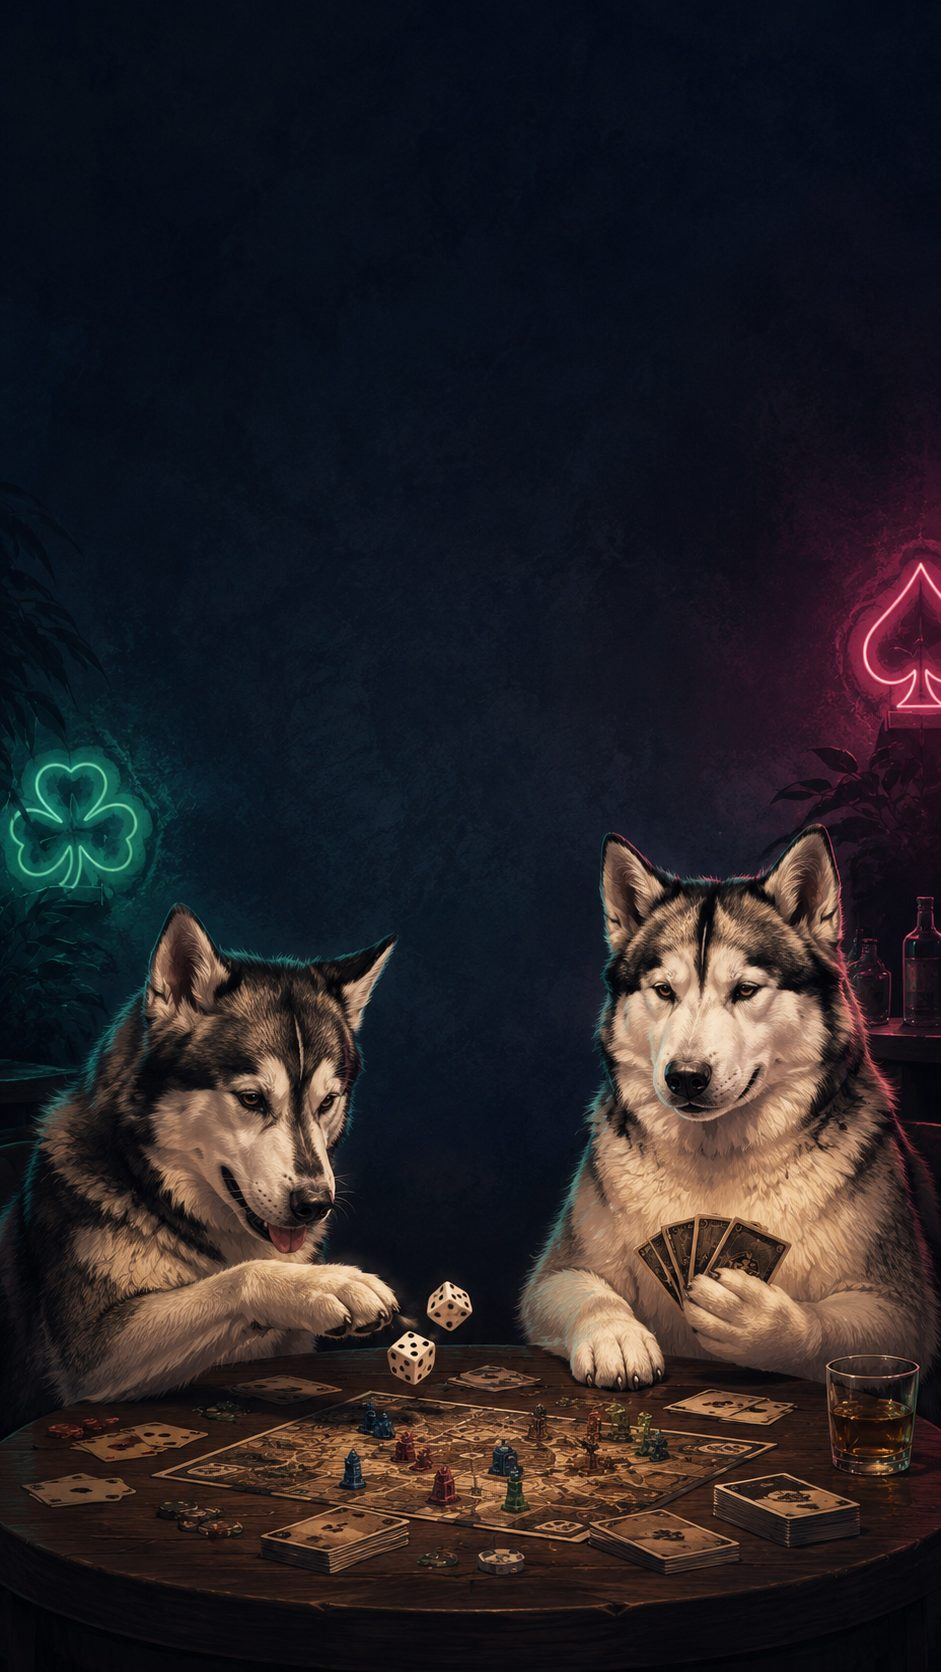
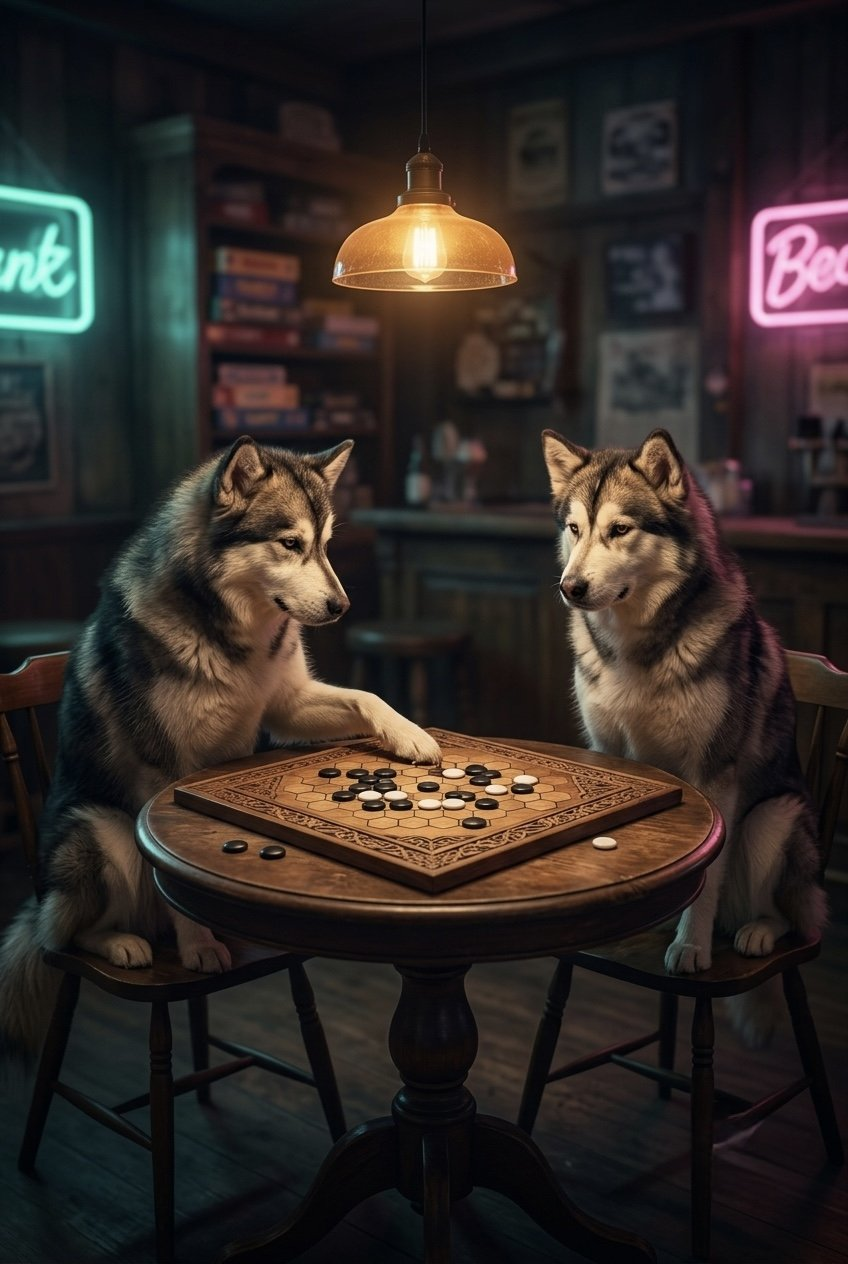
Byt bakgrundsbild till nytt Alaskan malamute-motiv
Ny bakgrundsbild (bg-dogs.jpg) med två Alaskan malamutes vid ett
spelbord, samma mörka neon-stämning som tidigare men nytt motiv och
mindre filstorlek (194 KB -> 134 KB). Cache-bustar bildreferensen i
CSS:en så uppdateringen slår igenom direkt för befintliga besökare.

diff --git a/js/main.js b/js/main.js
@@ -6,17 +6,17 @@ import {
     createRoom, joinRoom, makeMove, finishRound, markReadyForNext,
     cancelWaitingRoom, listenToOpenRooms,
     forgetRoom, listenToRoom, normalizeCode,
-} from "./rooms.js?v=46";
+} from "./rooms.js?v=47";
 import {
     showScreen, renderLobby, renderGame, setError,
     renderProfileList, filterProfiles, setCurrentProfileLabel, populateStatsFilters, renderStatsResults, renderOpenRooms,
     populateRulesGamePicker, renderRulesContent,
-} from "./ui.js?v=46";
-import { getGame, DEFAULT_GAME_ID } from "./games/registry.js?v=46";
+} from "./ui.js?v=47";
+import { getGame, DEFAULT_GAME_ID } from "./games/registry.js?v=47";
 import {
     listProfiles, getOrCreateProfileByName, getStoredProfile, storeProfile, clearStoredProfile, fetchStatsLog,
-} from "./profiles.js?v=46";
-import { filterEntries, buildLeaderboard, buildHeadToHead } from "./stats.js?v=46";
+} from "./profiles.js?v=47";
+import { filterEntries, buildLeaderboard, buildHeadToHead } from "./stats.js?v=47";
 
 // Bumpas manuellt vid varje push så det syns i appen (längst ner) vilken
 // version en telefon faktiskt kör — bra för att felsöka cache-problem.
@@ -25,7 +25,7 @@ import { filterEntries, buildLeaderboard, buildHeadToHead } from "./stats.js?v=4
 // i index.html, annars riskerar olika filer att cachas separat och hamna
 // i otakt — vilket var precis orsaken till att "rummet hittades inte"
 // kvarstod trots att fixen redan var pushad.
-export const APP_VERSION = "build 46 · 2026-08-08";
+export const APP_VERSION = "build 47 · 2026-08-08";
 
 let currentCode = null;
 let myPlayerId = null;

diff --git a/js/games/registry.js b/js/games/registry.js
@@ -2,16 +2,16 @@
 // till här; resten av appen (rooms.js/ui.js/main.js) är generisk över
 // vilket spel som spelas och pratar bara med den här filen.
 
-import * as tictactoe from "./tictactoe.js?v=46";
-import * as othello from "./othello.js?v=46";
-import * as backgammon from "./backgammon.js?v=46";
-import * as battleship from "./battleship.js?v=46";
-import * as connectfour from "./connectfour.js?v=46";
-import * as checkers from "./checkers.js?v=46";
-import * as go from "./go.js?v=46";
-import * as kvarn from "./kvarn.js?v=46";
-import * as hex from "./hex.js?v=46";
-import * as abalone from "./abalone.js?v=46";
+import * as tictactoe from "./tictactoe.js?v=47";
+import * as othello from "./othello.js?v=47";
+import * as backgammon from "./backgammon.js?v=47";
+import * as battleship from "./battleship.js?v=47";
+import * as connectfour from "./connectfour.js?v=47";
+import * as checkers from "./checkers.js?v=47";
+import * as go from "./go.js?v=47";
+import * as kvarn from "./kvarn.js?v=47";
+import * as hex from "./hex.js?v=47";
+import * as abalone from "./abalone.js?v=47";
 
 export const GAMES = {
     [tictactoe.meta.id]: tictactoe,

diff --git a/js/rooms.js b/js/rooms.js
@@ -12,8 +12,8 @@
 // innan en ny rond startar (round.readyForNext) — se finishRound/
 // markReadyForNext nedan.
 
-import { paths, dbGet, dbSet, dbRemove, dbTransact, dbListen, dbPush, registerPresence } from "./firebase.js?v=46";
-import { getGame, DEFAULT_GAME_ID } from "./games/registry.js?v=46";
+import { paths, dbGet, dbSet, dbRemove, dbTransact, dbListen, dbPush, registerPresence } from "./firebase.js?v=47";
+import { getGame, DEFAULT_GAME_ID } from "./games/registry.js?v=47";
 
 // Spel kan lägga till egna initiala fält på runde-nivå (t.ex. backgammons
 // dubbleringstärning) via en valfri game.initialRoundState()-hook.

diff --git a/index.html b/index.html
@@ -11,7 +11,7 @@
     <link rel="apple-touch-icon" href="assets/icon.svg">
     <meta name="apple-mobile-web-app-capable" content="yes">
     <meta name="apple-mobile-web-app-status-bar-style" content="black-translucent">
-    <link rel="stylesheet" href="style.css?v=46">
+    <link rel="stylesheet" href="style.css?v=47">
 </head>
 <body>
     <div id="app">
@@ -210,6 +210,6 @@
 
     <div id="app-version" class="app-version"></div>
 
-    <script type="module" src="js/main.js?v=46"></script>
+    <script type="module" src="js/main.js?v=47"></script>
 </body>
 </html>

diff --git a/js/ui.js b/js/ui.js
@@ -4,8 +4,8 @@
 // här filen. Vet ingenting om enskilda spels regler — allt sådant kommer
 // från den aktuella spelmodulen (js/games/registry.js) via room.gameId.
 
-import { boardToCells } from "./games/shared.js?v=46";
-import { getGame, GAME_LIST } from "./games/registry.js?v=46";
+import { boardToCells } from "./games/shared.js?v=47";
+import { getGame, GAME_LIST } from "./games/registry.js?v=47";
 
 const screens = {
     profile: document.getElementById("screen-profile"),

diff --git a/style.css b/style.css
@@ -39,7 +39,7 @@ body {
 body.bg-start {
     background:
         linear-gradient(to bottom, rgba(11, 12, 16, 0.25) 0%, rgba(11, 12, 16, 0.55) 55%, rgba(11, 12, 16, 0.92) 100%),
-        url("assets/bg-dogs.jpg") center bottom / cover no-repeat;
+        url("assets/bg-dogs.jpg?v=47") center bottom / cover no-repeat;
 }
 
 /* Genomskinligt kort på startsidorna så bakgrundsbilden skymtar igenom

diff --git a/js/games/hex.js b/js/games/hex.js
@@ -27,7 +27,7 @@
 // ursprungliga drag var för Svart. Bara giltigt en enda gång, precis
 // efter det allra första draget (round.board.stones har exakt 1 sten).
 
-import { otherSymbolOf } from "./shared.js?v=46";
+import { otherSymbolOf } from "./shared.js?v=47";
 
 const SIZE = 11;
 const CELL_COUNT = SIZE * SIZE;

diff --git a/js/profiles.js b/js/profiles.js
@@ -10,7 +10,7 @@
 // profileId är den varaktiga identiteten en spelare väljer EN gång och
 // sedan återanvänder i alla rum den skapar/går med i.
 
-import { paths, dbGet, dbSet } from "./firebase.js?v=46";
+import { paths, dbGet, dbSet } from "./firebase.js?v=47";
 
 const STORAGE_KEY = "luffarschack:profile";
 

diff --git a/js/games/abalone.js b/js/games/abalone.js
@@ -29,7 +29,7 @@
 // (Go/Kvarn) och inte bara en engångsplacering i en tom ruta (Hex). Se
 // rendering-sektionen längst ner för själva pixel-omvandlingen.
 
-import { otherSymbolOf } from "./shared.js?v=46";
+import { otherSymbolOf } from "./shared.js?v=47";
 
 export const meta = {
     id: "abalone",

diff --git a/js/games/battleship.js b/js/games/battleship.js
@@ -11,7 +11,7 @@
 // Ren spellogik (inga sidoeffekter, inget DOM/Firebase) + renderBoard
 // (eget bräde — två hav, inte det generiska rutnätet).
 
-import { otherSymbolOf } from "./shared.js?v=46";
+import { otherSymbolOf } from "./shared.js?v=47";
 
 export const meta = {
     id: "battleship",

diff --git a/js/games/kvarn.js b/js/games/kvarn.js
@@ -32,7 +32,7 @@
 // relevant efter att denne placerat klart, se isFinishedPlacing), eller
 // är helt blockerad (inget lagligt drag) i flytt-/flygfasen.
 
-import { otherSymbolOf } from "./shared.js?v=46";
+import { otherSymbolOf } from "./shared.js?v=47";
 
 export const meta = {
     id: "kvarn",

diff --git a/js/games/go.js b/js/games/go.js
@@ -20,7 +20,7 @@
 //   drag). Mer sällsynta, längre ko-cykler (t.ex. "trippel ko") stoppas
 //   inte, men är extremt ovanligt i vardagsspel.
 
-import { otherSymbolOf } from "./shared.js?v=46";
+import { otherSymbolOf } from "./shared.js?v=47";
 
 const SIZE = 9;
 const CELL_COUNT = SIZE * SIZE;
